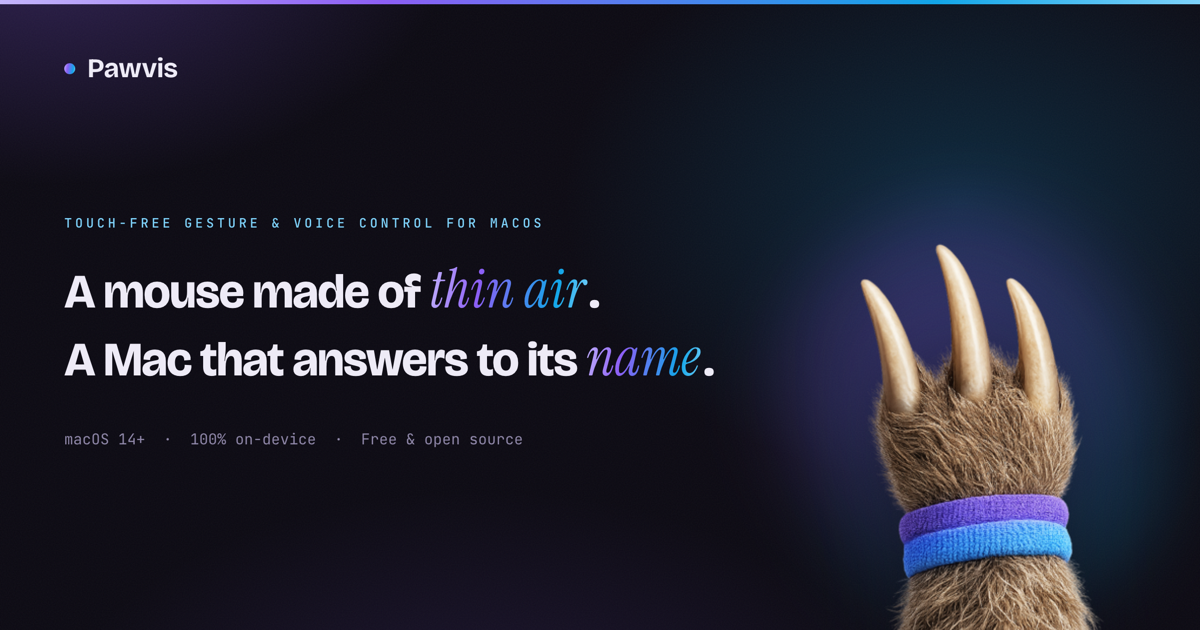
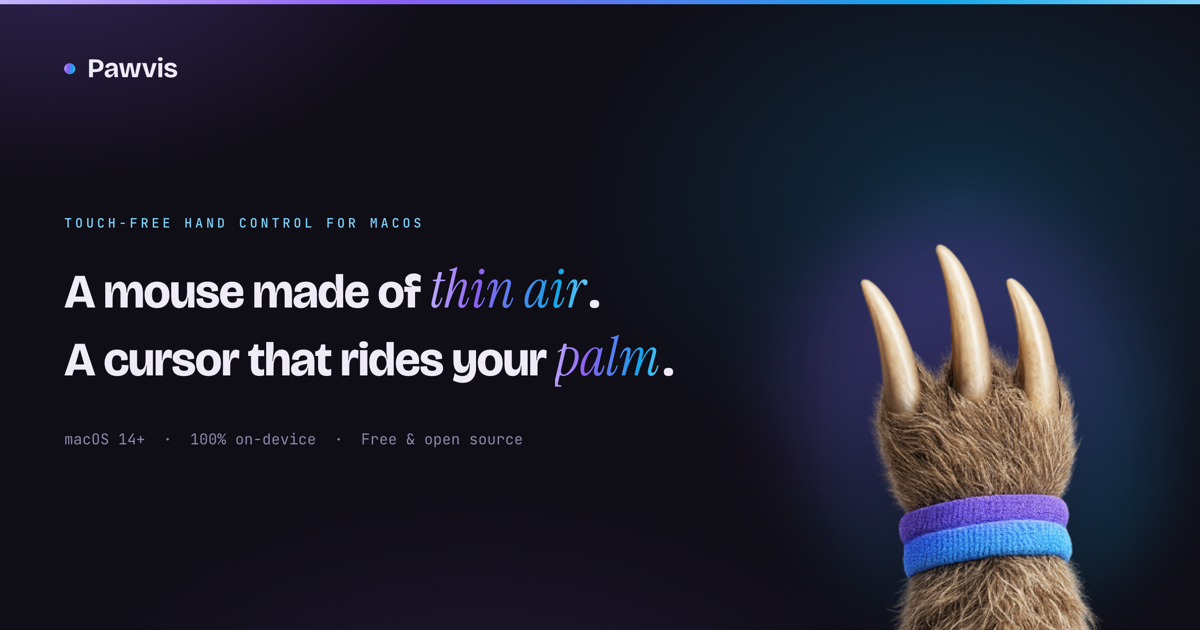
docs: lead with hand control everywhere — voice steps back to beta billing
Visual hand control is the core of Pawvis; voice mode is a beta and
shouldn't share top billing. Splash hero, page title, OG/Twitter card
copy and the README tagline + intro now pitch hand control alone, with
voice mentioned secondarily as a beta. banner.png re-rendered from the
updated banner.html (new second line: "A cursor that rides your palm.").

Changed region(s): [[0.0617, 0.5429, 0.6167, 0.6032], [0.1542, 0.3317, 0.4625, 0.3619]]

diff --git a/docs/index.html b/docs/index.html
@@ -3,24 +3,24 @@
 <head>
   <meta charset="utf-8">
   <meta name="viewport" content="width=device-width, initial-scale=1">
-  <title>Pawvis: touch-free hand &amp; voice control for your Mac</title>
-  <meta name="description" content="Pawvis turns your webcam into a touch-free pointing device: raise your hand in the air and the cursor follows, dip a finger to click, and your voice runs the Mac. All processing 100% on-device.">
+  <title>Pawvis: touch-free hand control for your Mac</title>
+  <meta name="description" content="Pawvis turns your webcam into a touch-free pointing device: raise your hand in the air and the cursor follows, dip a finger to click, fold two fingers to scroll. All processing 100% on-device.">
   <link rel="canonical" href="https://alexandriax.github.io/pawvis/">
   <meta name="theme-color" content="#0B0912">
 
   <!-- Open Graph / Twitter -->
   <meta property="og:type" content="website">
   <meta property="og:site_name" content="Pawvis">
-  <meta property="og:title" content="Pawvis: touch-free hand &amp; voice control for your Mac">
-  <meta property="og:description" content="A mouse made of thin air. A Mac that answers to its name. Hand tracking, speech and screen understanding all run on your own machine.">
+  <meta property="og:title" content="Pawvis: touch-free hand control for your Mac">
+  <meta property="og:description" content="A mouse made of thin air: raise your hand and the cursor follows, dip a finger to click. Hand tracking runs entirely on your own machine.">
   <meta property="og:url" content="https://alexandriax.github.io/pawvis/">
   <meta property="og:image" content="https://alexandriax.github.io/pawvis/banner.png">
   <meta property="og:image:width" content="1200">
   <meta property="og:image:height" content="630">
-  <meta property="og:image:alt" content="Pawvis — a mouse made of thin air. A Mac that answers to its name.">
+  <meta property="og:image:alt" content="Pawvis — a mouse made of thin air. A cursor that rides your palm.">
   <meta name="twitter:card" content="summary_large_image">
-  <meta name="twitter:title" content="Pawvis: touch-free hand &amp; voice control for your Mac">
-  <meta name="twitter:description" content="A mouse made of thin air. A Mac that answers to its name. Everything on-device.">
+  <meta name="twitter:title" content="Pawvis: touch-free hand control for your Mac">
+  <meta name="twitter:description" content="A mouse made of thin air. A cursor that rides your palm. Everything on-device.">
   <meta name="twitter:image" content="https://alexandriax.github.io/pawvis/banner.png">
 
   <!-- Icons -->
@@ -75,17 +75,16 @@
 <section class="hero" id="top" aria-labelledby="hero-h">
   <div class="hero-glow" aria-hidden="true"></div>
   <div class="container hero-inner">
-    <p class="eyebrow mono" data-reveal>Touch-free gesture &amp; voice control for macOS</p>
+    <p class="eyebrow mono" data-reveal>Touch-free hand control for macOS</p>
     <h1 id="hero-h" data-reveal>
       A mouse made of <em class="serif grad">thin air</em>.<br>
-      A Mac that answers to its <em class="serif grad">name</em>.
+      A cursor that rides your <em class="serif grad">palm</em>.
     </h1>
     <p class="hero-sub" data-reveal>
       Pawvis reads your hand through the webcam. Raise it in the air and the
-      cursor follows, dip a finger to click, or say
-      <span class="mono say">&ldquo;Pawvis, open Safari&rdquo;</span> out loud.
-      No mouse under your palm, no trackpad, nothing to touch. Your camera
-      never sends a frame anywhere.
+      cursor follows; dip a finger to click, hold it down to drag, fold two
+      fingers to scroll. No mouse under your palm, no trackpad, nothing to
+      touch. Your camera never sends a frame anywhere.
     </p>
     <div class="cta-row" data-reveal>
       <a class="btn btn-primary" href="https://github.com/alexandriax/pawvis/releases/latest/download/Pawvis.zip">

diff --git a/scripts/banner.html b/scripts/banner.html
@@ -163,10 +163,10 @@ h1 {
   <div class="wordmark">Pawvis</div>
 
   <div class="copy">
-    <p class="eyebrow">Touch-free gesture &amp; voice control for macOS</p>
+    <p class="eyebrow">Touch-free hand control for macOS</p>
     <h1>
       A mouse made of <em class="serif grad">thin air</em>.<br>
-      A Mac that answers to its <em class="serif grad">name</em>.
+      A cursor that rides your <em class="serif grad">palm</em>.
     </h1>
     <p class="meta">macOS 14+&nbsp;&nbsp;·&nbsp;&nbsp;100% on-device&nbsp;&nbsp;·&nbsp;&nbsp;Free &amp; open source</p>
   </div>

diff --git a/README.md b/README.md
@@ -4,16 +4,17 @@
   <img src="icon.png" alt="Pawvis" width="200">
 </p>
 
-<p align="center"><em>macOS touch-free gesture &amp; voice control</em></p>
+<p align="center"><em>macOS touch-free hand control</em></p>
 
 ---
 
 Pawvis turns your webcam into a pointing device that works from thin air.
 Raise your open hand anywhere the camera can see it and the cursor follows;
-dip a finger to click. Nothing under your palm, nothing to touch. Talk to
-your Mac by name, without a keyboard in reach: *"Pawvis, go to github.com"*,
-*"Pawvis, type hello"*, *"Pawvis, open Safari"*. The aim is an
-accessibility-grade voice control that's more intuitive and capable than the
+dip a finger to click, hold it down to drag, fold two fingers to scroll.
+Nothing under your palm, nothing to touch: your hand is the mouse. There's
+also a [voice mode, in beta](#voice-control-beta) — talk to your Mac by name
+(*"Pawvis, open Safari"*), with the aim of growing into an
+accessibility-grade voice control more intuitive and capable than the
 built-in one.
 
 Hand tracking runs entirely on-device with Apple's Vision framework; speech
